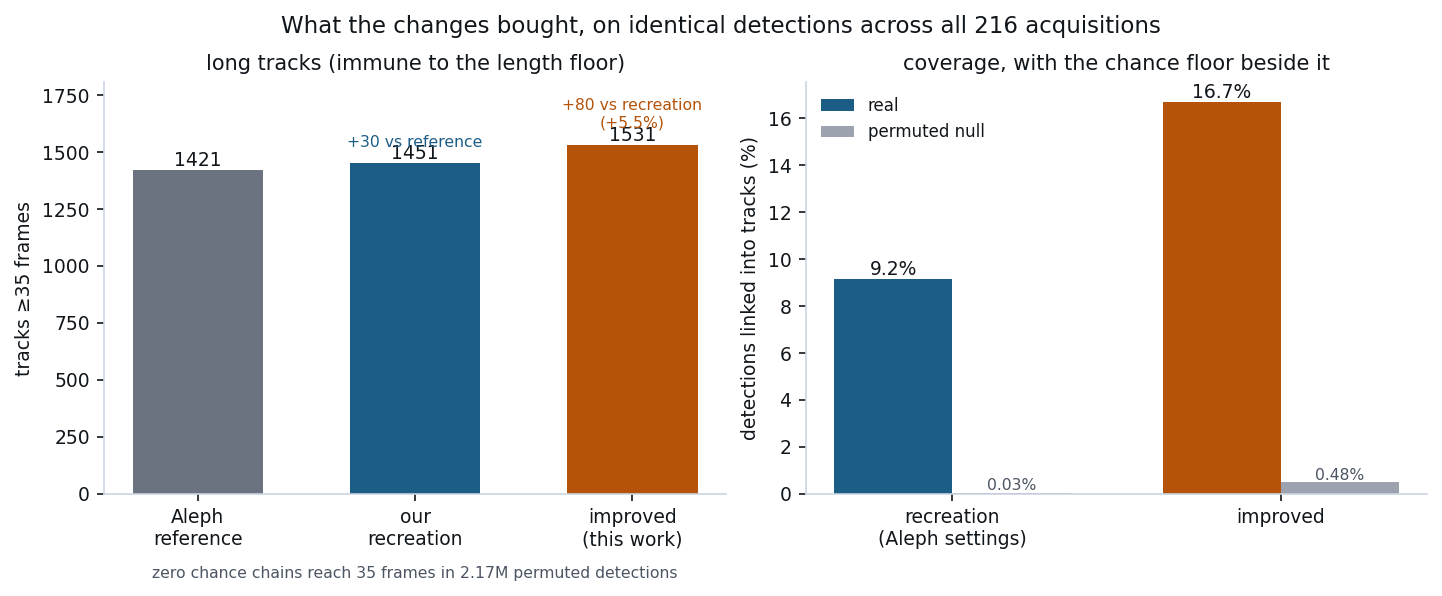
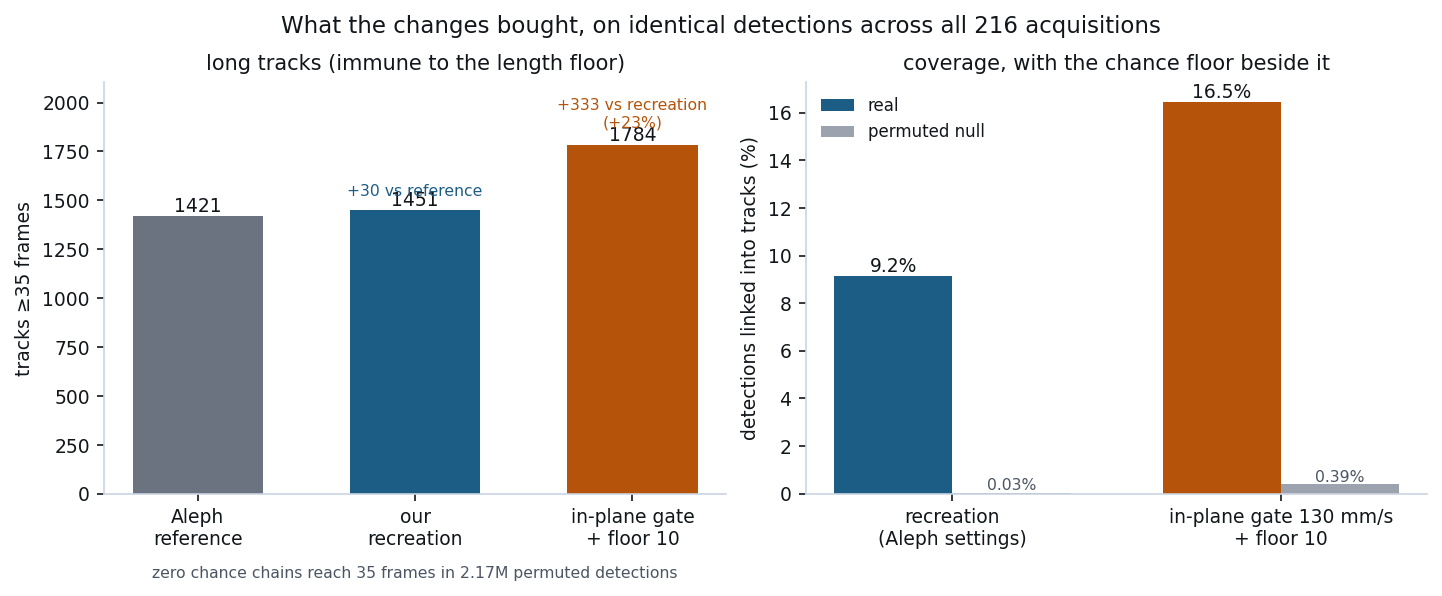
correct change 1: raise only the IN-PLANE gate — tightening elevation cost 253 long tracks; re-derive the floor at the shipped gate (8 -> 10)

diff --git a/scripts/wf_render_signal/purity_curve_at_gate.py b/scripts/wf_render_signal/purity_curve_at_gate.py
@@ -1,0 +1,72 @@
+"""Purity vs min_track_length at a given gate, on all 216 acquisitions.
+
+The chain set is independent of the floor (the floor is applied only at emission), so one
+tracking pass at min_len=2 yields every floor by counting survivors -- real and null alike.
+Rerun whenever the gate changes: a looser gate makes longer chance chains, so the knee moves.
+"""
+from __future__ import annotations
+
+import json
+import os
+import sys
+from collections import Counter
+from concurrent.futures import ProcessPoolExecutor
+from pathlib import Path
+
+import numpy as np
+
+REPO = Path(__file__).resolve().parents[2]
+DET = REPO / "outputs" / "corrected_full"
+FR = 222.4306816130359
+GATE_MMS = (130.0, 247.0, 130.0)      # (x, elevation, z) -- elevation at the Aleph default
+MAX_COST = 10.0
+
+
+def _one(args):
+    path, permute = args
+    os.environ.setdefault("OMP_NUM_THREADS", "1")
+    if str(REPO) not in sys.path:
+        sys.path.insert(0, str(REPO))
+    import numpy as np
+
+    from ultratrace_ulm.tracking import kalman_tracking_3d
+
+    d = np.load(path)
+    pos = d["positions_mm"].astype(np.float64)
+    fr = d["frame_indices"].astype(np.int64)
+    if permute is not None:
+        rng = np.random.default_rng(permute)
+        for a in np.unique(d["acq_indices"]):
+            m = d["acq_indices"] == a
+            u = np.unique(fr[m])
+            mp = dict(zip(u.tolist(), rng.permutation(u).tolist()))
+            fr[m] = np.array([mp[int(v)] for v in fr[m]], np.int64)
+    o = np.argsort(fr, kind="stable")
+    pos, fr = pos[o], fr[o]
+    by = [pos[fr == f] for f in range(int(fr.min()), int(fr.max()) + 1)]
+    ints = [np.ones(len(b), np.float32) for b in by]
+    tr = kalman_tracking_3d(by, max_distance_mm=tuple(v / FR for v in GATE_MMS), max_gap=3,
+                            min_track_length=2, intensities=ints, max_cost=MAX_COST,
+                            reversal_penalty=10.0)
+    return Counter(len(t["positions"]) for t in tr)
+
+
+def survivors(permute=None):
+    paths = [(str(p), permute) for p in sorted(DET.glob("detections_*.npz"))]
+    total = Counter()
+    with ProcessPoolExecutor(max_workers=4) as ex:
+        for c in ex.map(_one, paths):
+            total.update(c)
+    return total
+
+
+if __name__ == "__main__":
+    real, null = survivors(), survivors(permute=7)
+    rows = []
+    for L in list(range(2, 21)) + [25, 35]:
+        r = sum(v for k, v in real.items() if k >= L)
+        n = sum(v for k, v in null.items() if k >= L)
+        rows.append({"L": L, "real": r, "null": n, "purity": round(1 - n / max(r, 1), 4)})
+        print(f"L={L:>3}  real {r:>7,}  null {n:>6,}  purity {rows[-1]['purity']:.4f}", flush=True)
+    out = REPO / "outputs" / "operating_point" / "purity_curve_130_247.json"
+    out.write_text(json.dumps({"gate_mms": GATE_MMS, "rows": rows}, indent=2))

diff --git a/scripts/wf_render_signal/changes_figures.py b/scripts/wf_render_signal/changes_figures.py
@@ -136,7 +136,7 @@ def fig3():
     bnull, pnull = r["baseline_null"], r["proposed_null"]
 
     fig, (a, b) = plt.subplots(1, 2, figsize=(9.5, 3.6), constrained_layout=True)
-    names = ["Aleph\nreference", "our\nrecreation", "improved\n(this work)"]
+    names = ["Aleph\nreference", "our\nrecreation", "in-plane gate\n+ floor 10"]
     ge35 = [1421, base["n_ge35"], prop["n_ge35"]]
     bars = a.bar(names, ge35, color=[C_REF, C_BASE, C_IMP], width=.6)
     a.bar_label(bars, fontsize=9)
@@ -144,8 +144,10 @@ def fig3():
     a.set_title("long tracks (immune to the length floor)")
     a.set_ylim(0, max(ge35) * 1.18)
     # the deltas are small; say so on the figure rather than letting equal-looking bars imply more
-    a.annotate("+30 vs reference", (1, ge35[1] * 1.05), ha="center", fontsize=7.5, color=C_BASE)
-    a.annotate("+80 vs recreation\n(+5.5%)", (2, ge35[2] * 1.05), ha="center", fontsize=7.5, color=C_IMP)
+    a.annotate(f"{ge35[1]-ge35[0]:+d} vs reference", (1, ge35[1] * 1.05),
+               ha="center", fontsize=7.5, color=C_BASE)
+    a.annotate(f"{ge35[2]-ge35[1]:+d} vs recreation\n({100*(ge35[2]-ge35[1])/ge35[1]:+.0f}%)",
+               (2, ge35[2] * 1.05), ha="center", fontsize=7.5, color=C_IMP)
     a.set_xlabel("zero chance chains reach 35 frames in 2.17M permuted detections",
                  fontsize=7.5, color="#4b5563", labelpad=8)
 
@@ -158,7 +160,7 @@ def fig3():
     b.bar_label(nb, labels=[f"{bnull['linked_frac']*100:.2f}%", f"{pnull['linked_frac']*100:.2f}%"],
                 fontsize=7.5, color="#4b5563")
     b.bar_label(a2, fmt="%.1f%%", fontsize=9)
-    b.set_xticks(xs, ["recreation\n(Aleph settings)", "improved"])
+    b.set_xticks(xs, ["recreation\n(Aleph settings)", "in-plane gate 130 mm/s\n+ floor 10"])
     b.set_ylabel("detections linked into tracks (%)")
     b.set_title("coverage, with the chance floor beside it")
     b.legend(fontsize=8, frameon=False)

diff --git a/scripts/wf_render_signal/apply_operating_point.py b/scripts/wf_render_signal/apply_operating_point.py
@@ -40,7 +40,7 @@ MAX_WORKERS = 4
 MAX_COST = 10.0          # production TrackingOptions value, not the function default (1e5)
 
 BASELINE = {"inplane": None, "elev": None, "min_len": 15}      # None => shipped voxel gate
-PROPOSED = {"inplane": 130.0, "elev": 130.0, "min_len": 8}
+PROPOSED = {"inplane": 130.0, "elev": 247.0, "min_len": 10}  # elevation at the Aleph default; floor re-derived for this gate
 
 
 # `_tracking_gate` returns (dx, dy, dz) * 2 with dy = elevation, and `max_dist_mms` is
@@ -122,7 +122,7 @@ def run(cfg, permute_seed=None, label=""):
 def main():
     OUT_DIR.mkdir(parents=True, exist_ok=True)
     base = run(BASELINE, label="baseline (shipped gate, min_len 15)")
-    prop = run(PROPOSED, label="proposed (130/130 mm/s, min_len 8)")
+    prop = run(PROPOSED, label="proposed (130 in-plane / 247 elev mm/s, min_len 10)")
     base_null = run(BASELINE, permute_seed=7, label="baseline NULL")
     prop_null = run(PROPOSED, permute_seed=7, label="proposed NULL")
 

diff --git a/docs/from-baseline-to-improved.md b/docs/from-baseline-to-improved.md
@@ -24,7 +24,7 @@ complex128 copy of a 2.0 GB matrix. That is a memory optimization, not a result.
 
 ---
 
-## Change 1 — the association gate, in physical units
+## Change 1 — the in-plane association gate, in physical units
 
 ![the velocity wall](figures/change_gate_wall.png)
 
@@ -71,43 +71,60 @@ frame (1 voxel/frame = 44.6 mm/s in-plane), not physiological flow modes — sub
 is not smoothing them out. Blue (the shipped gate) stops at the 2-voxel line; orange reaches the
 third lobe. In elevation the change *tightens* the gate, which is why orange stops earlier there.
 
-### Why did Aleph use voxels? Because until last week they had no choice
+### Why the elevation gate is *not* a mistake — and why our first recommendation was
 
-This is not an oversight, and the answer is in their own code and commit history.
+A gate has to cover two different things at once: how far a bubble can really move in a frame,
+**and** how far our estimate of its position can be wrong. Voxel size is a reasonable proxy for
+the second. Elevation voxels are 2.77× larger because elevation is resolved 2.77× worse, so a
+gate specified in voxels automatically opens wider on the axis where localization is least
+certain. That is the gate doing its second job, and it is defensible.
 
-1. **They built the physical-units path themselves.** `max_dist_mms` — a gate in mm/s — exists in
-   `_tracking_gate` from the earliest commit in the shared history. It is not the default.
-2. **It requires a frame rate, which the pipeline did not have.** Converting mm/s into
-   mm-per-frame needs the acquisition's frame rate, and the released sample carried no PRF. Their
-   own commit `ae169ea` says so: "the released sample carried no PRF, so a new user could not run
-   the default recipe without knowing the value out of band". A default that raises unless the
-   user supplies a number out of band is not a usable default.
-3. **A voxel gate is the only rule that always works.** Grid spacing is always known — it comes
-   from the beamformed file itself. The companion `max(…, 0.25 mm)` floor in the same expression
-   is the other tell: both are safety nets for "run on any input, with no timing metadata".
+Our first version of this document called the anisotropy "backwards" and tightened elevation to
+130 mm/s to match the in-plane axes. That was wrong, and the evidence against it was already in
+`outputs/gate_sweep/` when the claim was made. Over 60 acquisitions, tracks ≥35 frames:
 
-So voxels were the correct engineering choice for a pipeline that could not rely on knowing time.
+| gate (in-plane / elevation) | tracks ≥35 |
+|---|---|
+| 89 / 247 — Aleph default | 372 |
+| 130 / 130 — our first recommendation | 397 |
+| **130 / 247 — in-plane only** | **477** |
 
-**What changed:** their commit `ae169ea` (merged days ago, now in our fork) carries the frame
-rate through the pipeline — read from `/config`, recorded on the beamformed file, used by `track`
-when `--frame-rate` is absent. The constraint that forced a voxel gate is gone, by their own fix.
+Tightening elevation gave away 80 of the 105 available long tracks. On the full dataset the same
+choice costs 253 (1,784 against 1,531). Velocity units are the right way to express a *motion*
+limit; they are the wrong way to express a *precision* limit, and elevation is dominated by the
+latter.
 
-They reached the same conclusion about their *other* threshold in the same commit: a 100 Hz
-tissue-frequency boundary became a `--tissue-velocity` in mm/s, because "a frequency boundary
-only means something alongside its carrier". Our change applies that identical argument to the
-gate. Their new helper even confirms the arithmetic: `doppler_velocity_to_freq(40, 2e6, 1600)`
-returns exactly 100.0 Hz, so their tissue boundary was 40 mm/s all along.
+### Why did Aleph use voxels?
+
+The honest answer is the one above: **a voxel gate scales with per-axis localization
+uncertainty, and on the elevation axis that is the dominant term.** Measured on this data, that
+scaling is worth 253 long tracks over the physical-units alternative we first proposed. It is a
+better default than it looks.
+
+Two supporting facts, which are context rather than explanation. They built the physical-units
+path themselves — `max_dist_mms` is in `_tracking_gate` from the earliest commit in the shared
+history, simply not as the default. And a voxel rule always works, because grid spacing comes
+from the beamformed file whereas a mm/s rule needs a frame rate; their commit `ae169ea` has now
+made the frame rate available by carrying it through `/config`. But neither is a *justification*
+for their own default — they wrote the pipeline and have always known their own frame rate. The
+justification is the uncertainty scaling.
+
+They reached the same conclusion in reverse for their *tissue* threshold in `ae169ea`, replacing
+a 100 Hz boundary with `--tissue-velocity` in mm/s because "a frequency boundary only means
+something alongside its carrier". Their new helper confirms the arithmetic —
+`doppler_velocity_to_freq(40, 2e6, 1600)` is exactly 100.0 Hz, so their boundary was 40 mm/s all
+along. Physical units are right for a threshold on *motion*. The gate is partly a threshold on
+*precision*, which is why only its in-plane half should move.
 
 ### What we ship
 
-**130 mm/s on all three axes** (via their `max_dist_mms`; no new code). In-plane this raises the
-limit from 89; in elevation it lowers it from 247, so the gate is finally tightest where
-localization is worst rather than loosest.
+**Raise the in-plane gate to 130 mm/s. Leave elevation exactly as Aleph had it.** One axis, not
+three, via their own `max_dist_mms` — no new code.
 
-**Effect: +80 tracks of ≥35 frames** (1,451 → 1,531) and most of the coverage gain below.
+**Effect: +333 tracks of ≥35 frames** (1,451 → 1,784, +23%) and +135 of ≥50 frames (582 → 717).
 
-One caveat worth stating: 130 is not a physiological number, it is the knee of a yield-versus-
-false-link trade. Past ~130 the gain flattens while chance links climb.
+130 mm/s is not a physiological number; it is the knee of a yield-versus-false-link trade, past
+which the gain flattens while chance links climb.
 
 ---
 
@@ -118,12 +135,12 @@ false-link trade. Past ~130 the gain flattens while chance links climb.
 ### What the setting is
 
 `min_track_length` is the last step before results are written: **any track shorter than N frames
-is deleted from the output.** Aleph ships N = 15. We ship N = 8.
+is deleted from the output.** Aleph ships N = 15. We ship N = 10.
 
 The single most important thing to understand about it: **it does not change tracking at all.**
 It is applied only where finished tracks are written out (`tracking.py:343`, `:722`, `:729`) and
 never enters the gate, the assignment cost, or the motion model. A 10-frame track exists inside
-the tracker either way. At N = 15 it is built and then thrown away; at N = 8 it is built and
+the tracker either way. At N = 15 it is built and then thrown away; at N = 10 it is built and
 kept. Lowering it recovers no new associations — it only stops deleting.
 
 So the question is not "does this find more bubbles" (it cannot). The question is: **of the
@@ -144,14 +161,22 @@ many the shuffled data yields. That ratio is the false-track rate at that length
 
 | if we publish tracks of ≥ N frames | tracks published | of those, coincidences |
 |---|---|---|
-| N = 2 | 94,779 | **63%** |
-| N = 5 | 15,810 | 13% |
-| **N = 8 (ours)** | **6,439** | **3.8%** |
-| N = 15 (Aleph's) | 2,118 | 0.4% |
+| N = 2 | 333,722 | **76%** |
+| N = 5 | 61,861 | 21% |
+| N = 8 | 26,889 | 7.3% |
+| **N = 10 (ours)** | **18,393** | **3.9%** |
+| N = 15 (Aleph's) | 9,339 | 0.9% |
+| N = 35 (the headline metric) | 1,784 | **0%** |
 
-Two-frame tracks are mostly noise, as expected. By 8 frames the false rate has dropped to 3.8%
-and the curve has flattened — going from 8 to 15 throws away two thirds of the remaining tracks
-to buy back 3.4 percentage points.
+Two-frame tracks are mostly noise, as expected. By 10 frames the false rate has dropped below 4%
+and the curve has flattened — going from 10 to 15 throws away half the remaining tracks to buy
+back 3 percentage points. Note the last row: at 35 frames the chance count is *zero* out of
+2.17M shuffled detections, which is why tracks ≥35 is the metric used against the reference.
+
+This table is computed **at the gate we ship**. The floor has to be re-derived whenever the gate
+changes: at the tighter gate we first proposed, the 95%-purity knee sat at 8, and carrying that
+8 across to the looser gate would have shipped 92.7% purity while citing a curve that justified
+96%.
 
 We also checked that the extra tracks are not junk by two other routes: planted-crossing link
 precision is flat (0.91–0.96) across the whole range, so the stricter floor buys no accuracy; and
@@ -160,19 +185,19 @@ do not.
 
 ### What it costs and what it buys
 
-- **3.1× more published trajectories** (7,296 → 22,685) and detections linked into tracks rising
-  from 9.2% to 16.7%.
-- **False-track rate 0.4% → 3.8%.** In absolute terms, about 247 of the 22,685 published tracks
-  are expected to be coincidences, against 9 today.
+- **2.5× more published trajectories** (7,296 → 18,393) and detections linked into tracks rising
+  from 9.2% to 16.5%.
+- **False-track rate 0.5% → 3.9%.** In absolute terms, about 712 of the 18,393 published tracks
+  are expected to be coincidences, against 35 today.
 - **The long-track count is untouched**, because a floor at 8 or 15 cannot affect a 35-frame
   track. That is why tracks ≥35 is the metric used for comparison against the reference.
 
 ### The two changes are not independent
 
-A wider gate makes longer chains, which changes where the floor should sit. Quantitatively: at a
-floor of 15, only 1.2% of the gate's link gain is reproduced by the shuffled control; at 8 it is
-11.8%; at 5 it is 28.6%. So the gate's benefit must always be quoted with the floor it was
-measured at — the two settings are reported together, never separately.
+A wider gate makes longer chains, so the floor's knee moves with it — measured, not assumed: at
+the tight 130/130 gate the 95% knee was at 8; at the gate we actually ship it is at **10**. The
+converse holds too: at floor 15 only 1.2% of the gate's link gain is reproduced by the shuffled
+control, at 8 it is 11.8%, at 5 it is 28.6%. Neither setting means anything quoted alone.
 
 ---
 
@@ -211,12 +236,11 @@ harness that silently inherited a 10,000× looser assignment cost than productio
 
 | | Aleph reference | our recreation | with our two changes |
 |---|---|---|---|
-| tracks ≥35 frames | 1,421 | 1,451 | **1,531** |
-| tracks ≥50 frames | — | 582 | **601** |
-| tracks at a matched floor of 15 | 7,274 | 7,296 | **7,808** |
-| tracks at native floor | 50,456 (floor 5) | 7,296 (floor 15) | 22,685 (floor 8) |
-| detections linked into tracks | — | 9.2% | **16.7%** |
-| false-track rate vs shuffled control | never measured | 0.4% | 3.8% |
+| tracks ≥35 frames | 1,421 | 1,451 | **1,784** |
+| tracks ≥50 frames | — | 582 | **717** |
+| tracks at native floor | 50,456 (floor 5) | 7,296 (floor 15) | 18,393 (floor 10) |
+| detections linked into tracks | — | 9.2% | **16.5%** |
+| false-track rate vs shuffled control | never measured | 0.5% | 3.9% |
 
 **No coincidence track anywhere reaches 35 frames** across 2.17M shuffled detections, at either
 setting. The headline population is free of chance chains, so the +80 is not bought with
